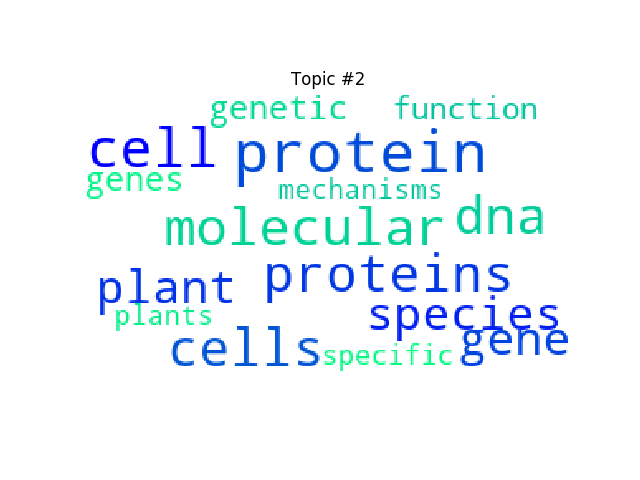
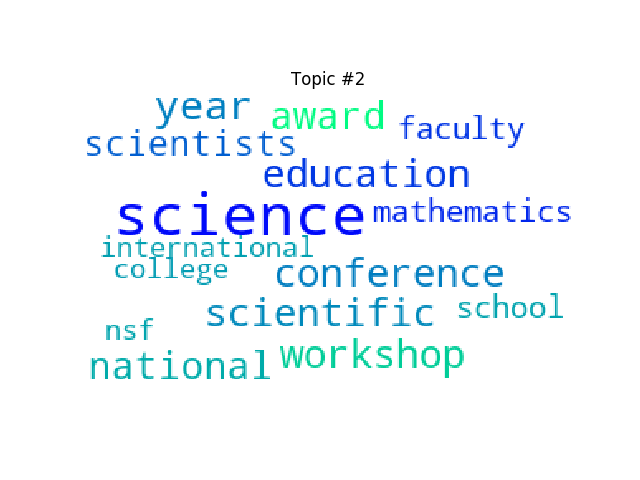
Add missing files and update README

Changed region(s): [[0.125, 0.1875, 0.9062, 0.8125]]

diff --git a/src/eu/eu_iterations.py b/src/eu/eu_iterations.py
@@ -116,8 +116,8 @@ for i in range(1):
     lda = gensim.models.ldamodel.LdaModel(corpus = objectives_corpus, 
                                         id2word = objectives_dictionary, 
                                         num_topics = 10,
-                                        passes=5,
-                                        # random_state = np.random.seed(12),
+                                        # passes=5,
+                                        random_state = np.random.seed(12),
                                         iterations = args.iterations)
 
 

diff --git a/README.md b/README.md
@@ -15,4 +15,27 @@ The `src` folder consists of all the code for generating LDA topics. `eu` and `u
 - `*_data_load_per_FP.ipynb`: the IPython notebook for loading the raw data, get the abstracts and save them as CSV files in the `dataset` folder for later use. In the USA dataset, you need to run the notebook, in order to create the `dataset` folder and the CSV files.
 - `dataset`: the data (project abstracts) after preprocessing. The projects are grouped in both regions based on the FP/year that they got funded.
 - `*_iterations.py`: the code for generating the topics per FP, using [LDA](https://radimrehurek.com/gensim/models/ldamodel.html).
+- `lda_saved`: folder that contains the saved LDA model per FP (after training).
+- `*_figures`: the wordclouds of the topics per FP, saved as PNG files.
+
+
+## Generating LDA topics
+
+To produce the topics for each FP, run:
+
+`python eu_iterations.py FP_file [OPTIONS]`
+`python usa_iterations.py FP_file [OPTIONS]`
+
+where:
+
+- `FP_file` is one of the following: FP4, FP5, FP6, FP7, H2020
+- `-i` or `--iterations`: the number of iterations for the LDA model. By default it's 7000 for the EU dataset and 8000 for the USA.
+
+The outcome is a set of 10 topics pictured as wordclouds, which they display the 20 top words with the highest probability of belonging to the topic.
+
+
+## Similarity of topics
+
+`compare_FPs_topics.py`: in order to calculate the similarity of the topics between the two regions (per FP), we calculate the JSD for each pair of topics and save the results in a CSV file (in the `compared_FPs` folder).
+
 
